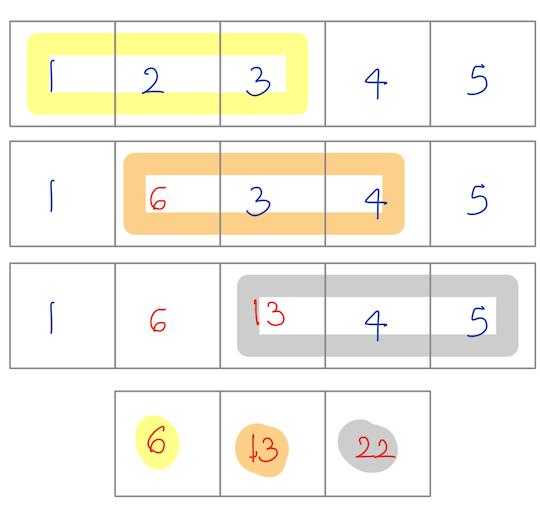
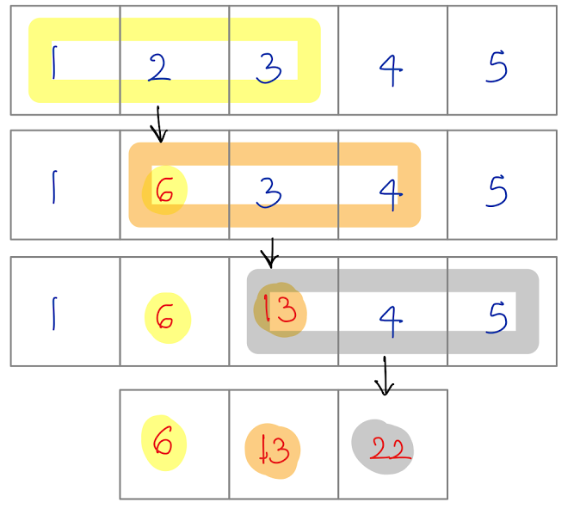
update readme,add codecov config

diff --git a/README.md b/README.md
@@ -30,8 +30,6 @@ Kernex extends `jax.vmap` and `jax.lax.scan` with `kmap` and `kscan` for general
 
 ## ⏩ Quick Example <a id="QuickExample">
 
-<details><summary> Simple kernel sum  </summary>
-
 <div align="center">
 <table>
 <tr>
@@ -45,13 +43,13 @@ Kernex extends `jax.vmap` and `jax.lax.scan` with `kmap` and `kscan` for general
 def sum_all(x):
     return jnp.sum(x)
 
-x = jnp.array([1,2,3,4,5])
-print(sum_all(x))
->>> [ 6  9 12]
+>>> x = jnp.array([1,2,3,4,5])
+>>> print(sum_all(x))
+[ 6  9 12]
 ```
 
 `jax.vmap` is used to sum each window content.
-<img src="assets/kmap_sum.png" width=400px align="center">
+<img src="assets/kmap_sum.png" width=400px>
 
 <br><br><br><br><br><br><br><br><br><br>
 
@@ -63,21 +61,21 @@ print(sum_all(x))
 def sum_all(x):
     return jnp.sum(x)
 
-x = jnp.array([1,2,3,4,5])
-print(sum_all(x))
-
-> > > [ 6 13 22]
+>>> x = jnp.array([1,2,3,4,5])
+>>> print(sum_all(x))
+[ 6 13 22]
 
 ````
 `lax.scan` is used to update the array and the window sum is calculated sequentially.
+the first three rows represents the three sequential steps used to get the solution in the last row.
 
-<img src="assets/kscan_sum.png" width=500px align="center">
+<img src="assets/kscan_sum.png" width=400px>
 </td>
 </tr>
 </table>
 
 </div>
-    </details>
+
 
 ## 🕸 Function mesh concept <a id="FunctionMesh">
 <details>
